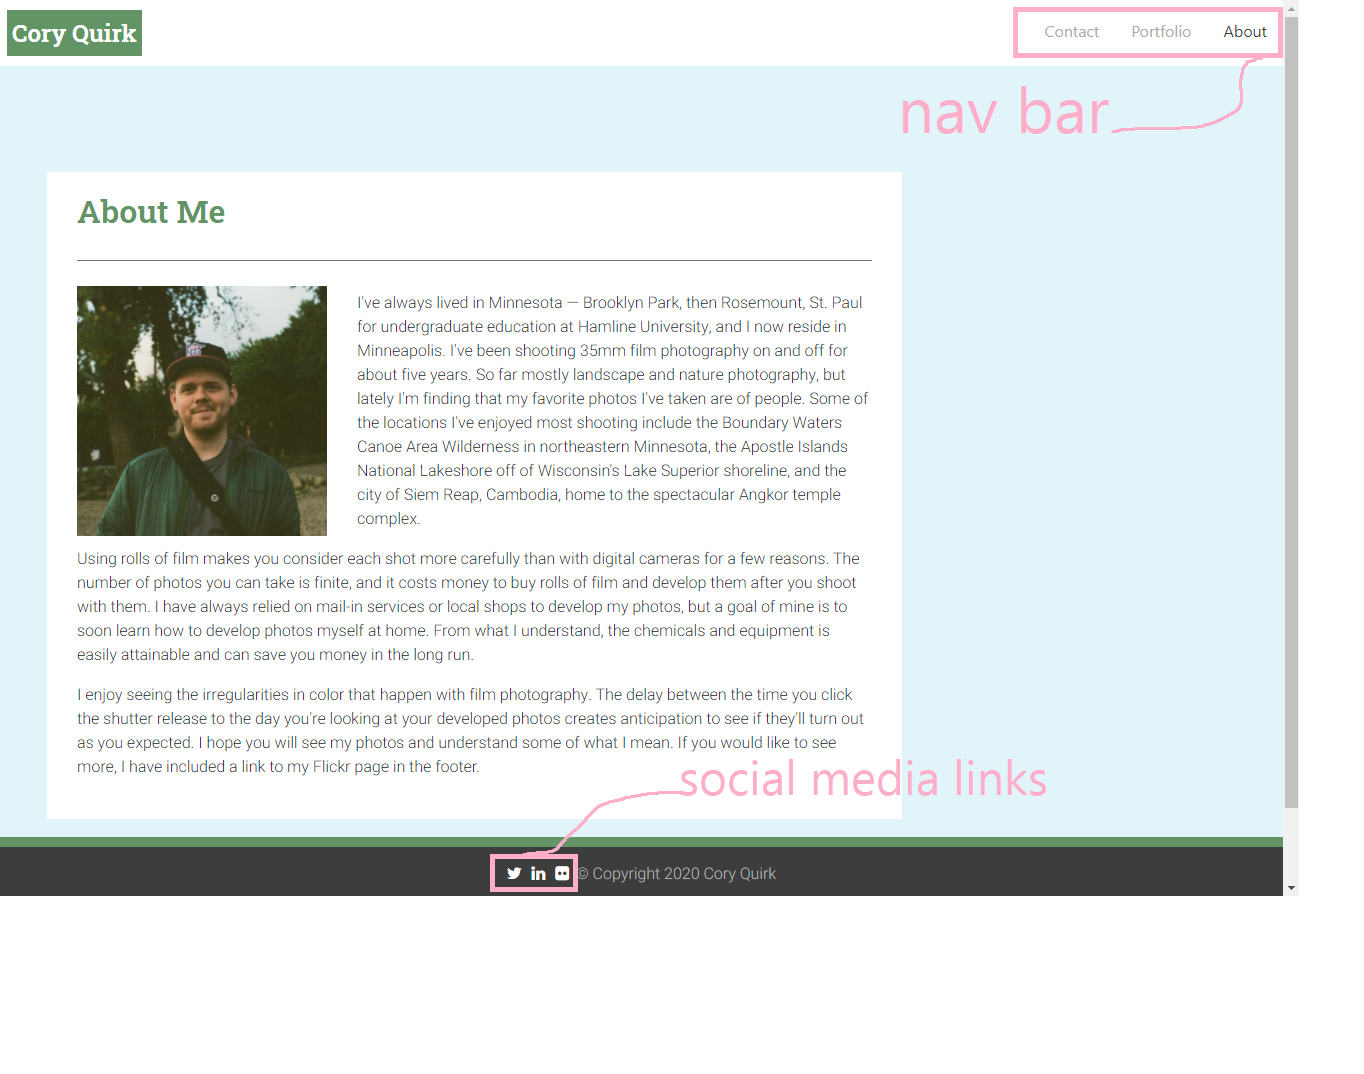
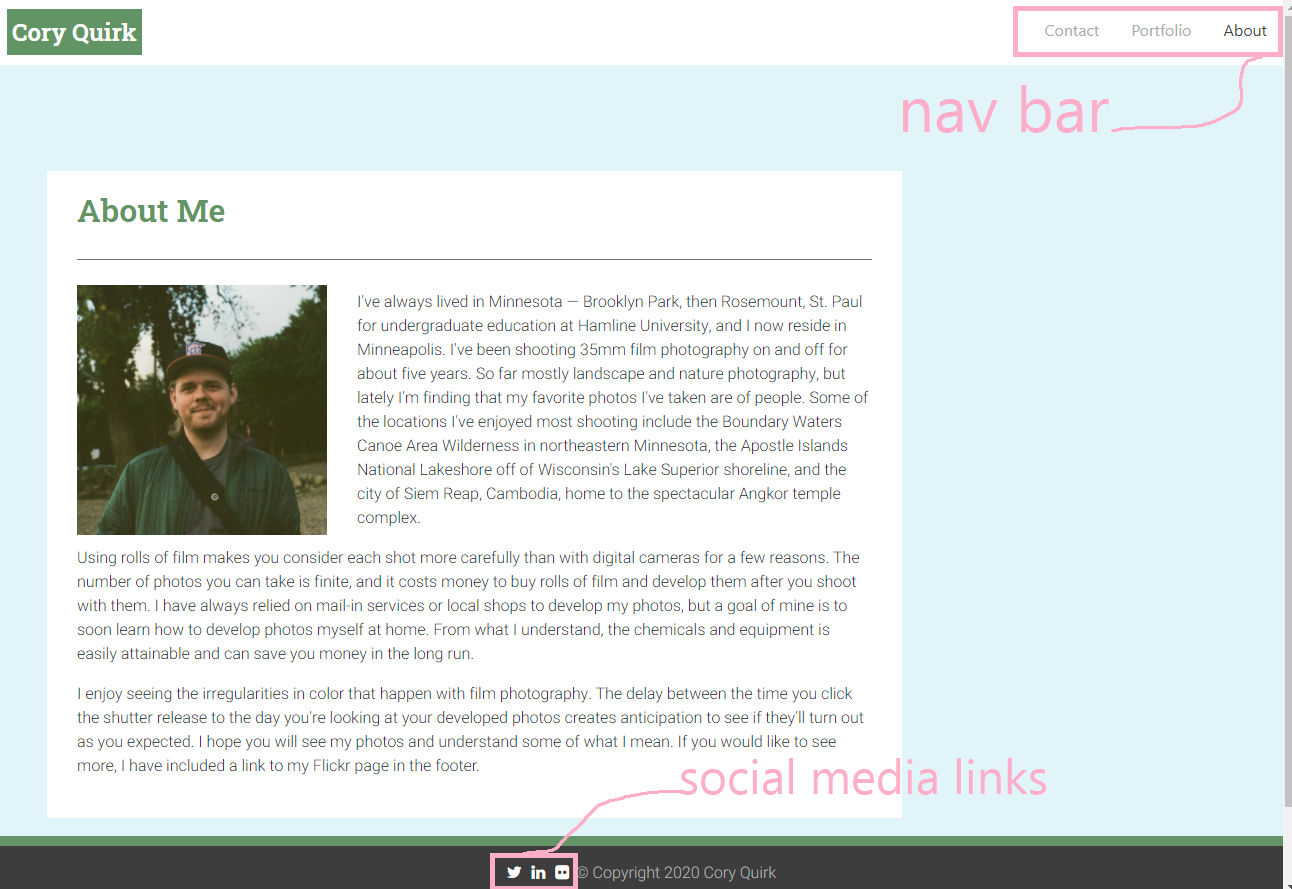
adding usage image

diff --git a/index.html b/index.html
@@ -21,16 +21,16 @@
     <link href="https://fonts.googleapis.com/css2?family=Arvo:wght@700&family=Heebo:wght@100;300&family=Roboto+Slab:wght@600&display=swap" rel="stylesheet">
 </head>
 
-<header>
+<div class="desktopnav">
 
-<ul>
-  <li><a id="coryquirk">Cory Quirk</a></li>
-  <li class="links"><a href="index.html" style="color: rgb(65, 65, 65);">About</a></li>
-  <li class="links"><a href="portfolio.html">Portfolio</a></li>
-  <li class="links"><a href="contact.html">Contact</a></li>
-</ul>
-
-</header>
+  <ul>
+    <li><a id="coryquirk">Cory Quirk</a></li>
+    <li class="links"><a href="index.html">About</a></li>
+    <li class="links"><a href="portfolio.html">Portfolio</a></li>
+    <li class="links"><a href="contact.html" style="color: rgb(65, 65, 65);">Contact</a></li>
+  </ul>
+  
+</div>
 
 <body>
     

diff --git a/contact.html b/contact.html
@@ -17,12 +17,13 @@
     <!-- social media links -->
     <link rel="stylesheet" href="https://cdnjs.cloudflare.com/ajax/libs/font-awesome/4.7.0/css/font-awesome.min.css">
 
+
     <!-- fonts -->
     <link href="https://fonts.googleapis.com/css2?family=Arvo:wght@700&family=Heebo:wght@100;300&family=Roboto+Slab:wght@600&display=swap" rel="stylesheet">
 </head>
 
 <!-- navbar -->
-<header>
+<div class="desktopnav">
 
   <ul>
     <li><a id="coryquirk">Cory Quirk</a></li>
@@ -31,7 +32,7 @@
     <li class="links"><a href="contact.html" style="color: rgb(65, 65, 65);">Contact</a></li>
   </ul>
   
-</header>
+</div>
 
 
 <body>

diff --git a/portfolio.html b/portfolio.html
@@ -22,16 +22,16 @@
 </head>
 
 <!-- navbar -->
-<header>
+<div class="desktopnav">
 
   <ul>
     <li><a id="coryquirk">Cory Quirk</a></li>
     <li class="links"><a href="index.html">About</a></li>
-    <li class="links"><a href="portfolio.html" style="color: rgb(65, 65, 65);">Portfolio</a></li>
-    <li class="links"><a href="contact.html">Contact</a></li>
+    <li class="links"><a href="portfolio.html">Portfolio</a></li>
+    <li class="links"><a href="contact.html" style="color: rgb(65, 65, 65);">Contact</a></li>
   </ul>
   
-</header>
+</div>
 
 <body>
 

diff --git a/style.css b/style.css
@@ -241,3 +241,4 @@ input, textarea {
     }
 
 }
+
